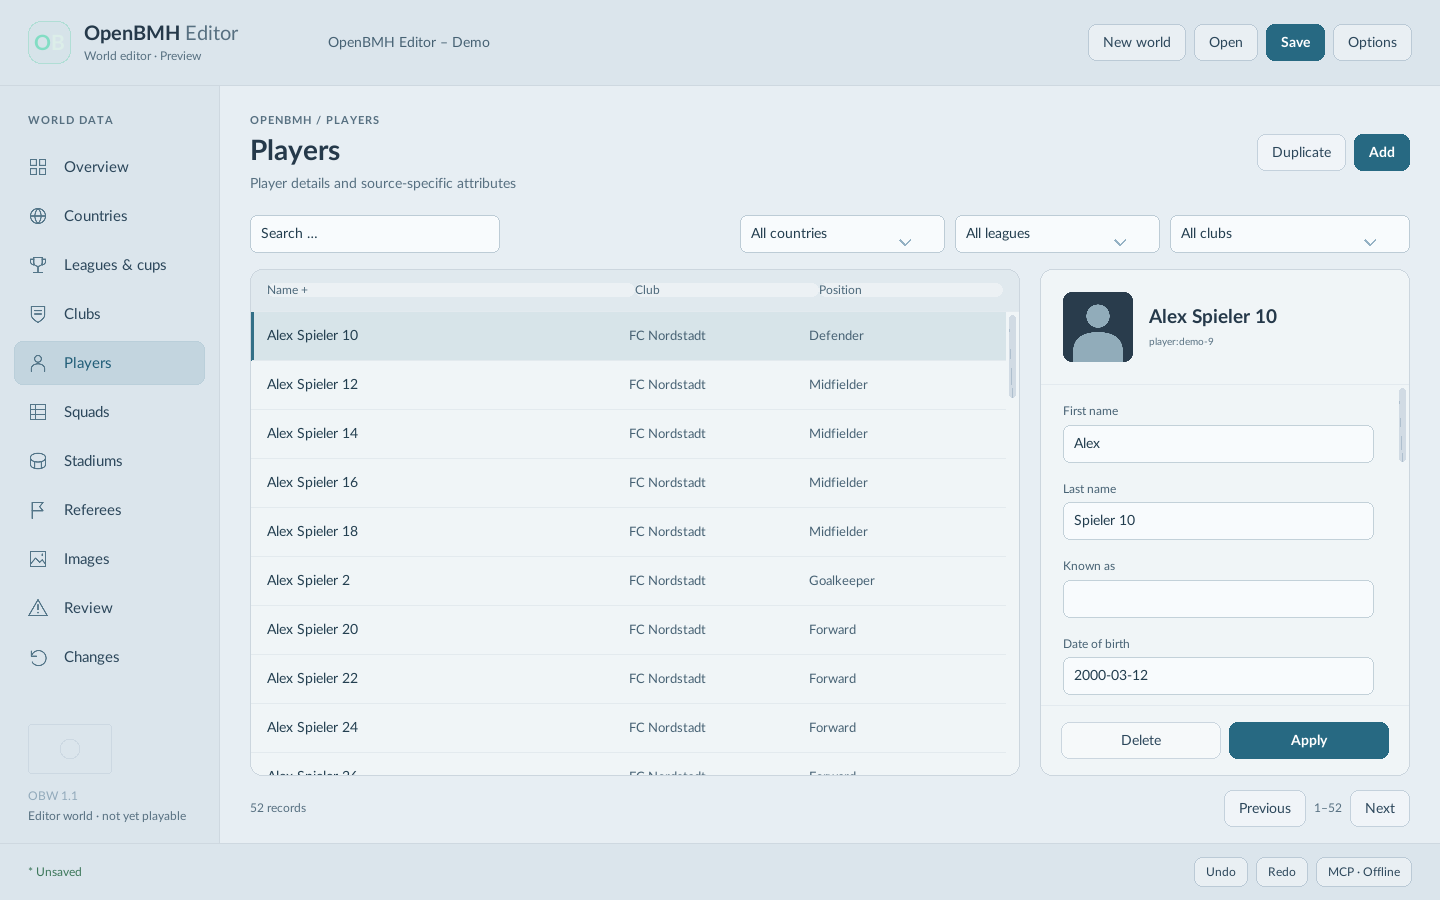
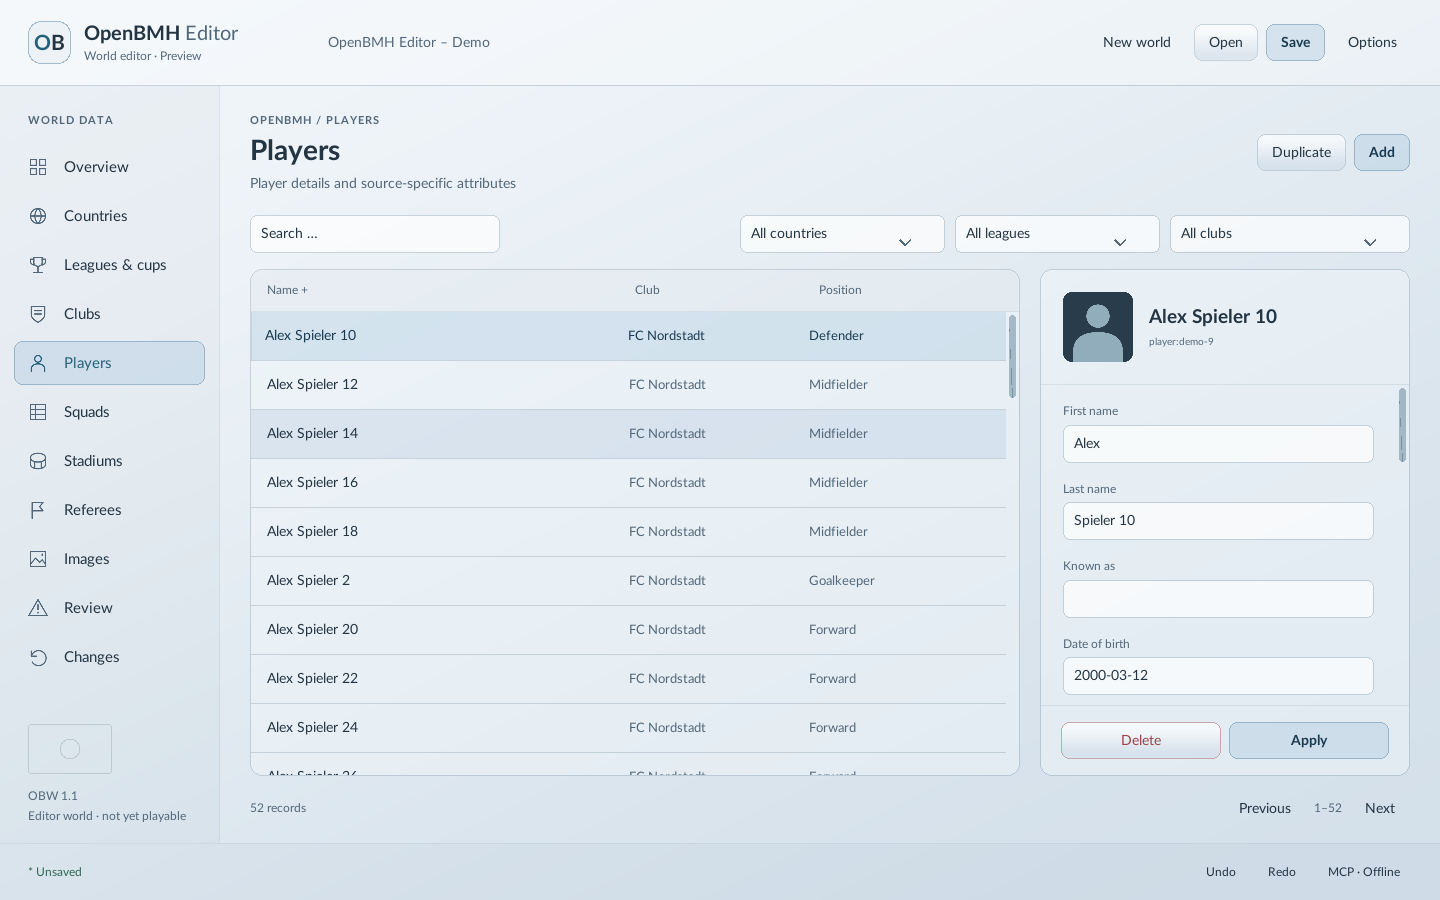
Match all editor themes to modern submenu palettes (by Codex)

diff --git a/tools/public_release/check_public_tree.py b/tools/public_release/check_public_tree.py
@@ -45,15 +45,51 @@ SKIP_DIRECTORIES = {".git", "__pycache__", ".cache", "_deps", "node_modules"}
 # The latter are reviewed against docs/qa/editor-poc/README.md; no game material.
 # Keep prior reviewed hashes if an asset is intentionally revised in history.
 PROJECT_ARTWORK = {
[6 lines of base64/hex data omitted]
+    "docs/qa/editor-poc/clubs-midnight-de.png": {
[2 lines of base64/hex data omitted]
+    },
+    "docs/qa/editor-poc/gui-search.png": {
[2 lines of base64/hex data omitted]
+    },
+    "docs/qa/editor-poc/image-editor-midnight-de.png": {
[2 lines of base64/hex data omitted]
+    },
+    "docs/qa/editor-poc/options-midnight-de.png": {
[2 lines of base64/hex data omitted]
+    },
+    "docs/qa/editor-poc/players-silver-en.png": {
[2 lines of base64/hex data omitted]
+    },
+    "docs/qa/editor-poc/roster-matchday-de.png": {
[2 lines of base64/hex data omitted]
+    },
     "assets/launcher/stadium.tga": {
[2 lines of base64/hex data omitted]
+    },
+    "docs/qa/editor-poc/clubs-silver-de.png": {
[1 lines of base64/hex data omitted]
+    },
+    "docs/qa/editor-poc/options-silver-de.png": {
[1 lines of base64/hex data omitted]
+    },
+    "docs/qa/editor-poc/image-editor-silver-de.png": {
[1 lines of base64/hex data omitted]
+    },
+    "docs/qa/editor-poc/clubs-matchday-de.png": {
[1 lines of base64/hex data omitted]
+    },
+    "docs/qa/editor-poc/options-matchday-de.png": {
[1 lines of base64/hex data omitted]
+    },
+    "docs/qa/editor-poc/image-editor-matchday-de.png": {
[1 lines of base64/hex data omitted]
     },
 }
 

diff --git a/src/editor/ui.cpp b/src/editor/ui.cpp
@@ -209,9 +209,13 @@ class EditorUi final : public Rml::EventListener {
             {"assets", "M3 3h18v18H3zM3 18l6-7 5 5 3-3 4 5M17 6v2"},
             {"review", "M12 2 1 21h22zM12 8v6M12 17v1"},
             {"changes", "M4 5v6h6M4 11a9 9 0 1 1 1 7"}};
-        const auto token = "icon-" + options_.theme + '-' + name + ".png";
+        const bool active = name == page_;
+        const auto token = "icon-" + options_.theme + '-' + name + (active ? "-active.png" : ".png");
         if (!renderer_.memory.contains(token)) {
-            auto color = options_.theme == "silver" ? "#537588" : options_.theme == "matchday" ? "#d3b3b0" : "#9cb9c8";
+            // Rasterized line art follows the same muted/accent colours as RCSS.
+            const auto color = options_.theme == "silver"     ? (active ? "#25617a" : "#526779")
+                               : options_.theme == "matchday" ? (active ? "#efb2aa" : "#b7b4b9")
+                                                              : (active ? "#a9dccb" : "#a8b8c8");
             renderer_.memory[token] = {"<svg xmlns=\"http://www.w3.org/2000/svg\" width=\"24\" "
                                        "height=\"24\" viewBox=\"0 0 24 24\"><path d=\"" +
                                            paths.at(name) + "\" fill=\"none\" stroke=\"" + color +

diff --git a/docs/qa/editor-poc/README.md b/docs/qa/editor-poc/README.md
@@ -12,7 +12,26 @@ reviewed image hashes are allowlisted by the public-tree check.
 | [Squads](roster-matchday-de.png) | Matchday theme, full squads and optional 24-row view |
 | [Search](gui-search.png) | Actual keyboard input, focus retained across filtering |
 | [Options](options-midnight-de.png) | Language, theme, integrated MCP toggle/port |
-| [Image editor](image-editor-midnight-de.png) | Source-preserving crop, free rotation and mirroring; a simple synthetic vector portrait |
+| [Image editor](image-editor-midnight-de.png) | Source-preserving crop, free rotation and mirroring; the demo's geometric SVG crest |
+
+## Theme comparison
+
+The three editor palettes follow the modern game's submenu colours. Midnight
+uses a slate-grey gradient and restrained mint accents, Silver pale silver-blue
+surfaces and petrol accents, and Matchday graphite surfaces and coral accents.
+All components consume the inherited palette, including dropdown popups,
+validation/error text, scrollbars, image stages and crop outlines. The comparison
+uses the same German `World::demo()` view in each theme.
+
+| Theme | Clubs | Options | Image editor |
+|---|---|---|---|
+| Midnight Glass | [View](clubs-midnight-de.png) | [View](options-midnight-de.png) | [View](image-editor-midnight-de.png) |
+| Silver Glass | [View](clubs-silver-de.png) | [View](options-silver-de.png) | [View](image-editor-silver-de.png) |
+| Matchday | [View](clubs-matchday-de.png) | [View](options-matchday-de.png) | [View](image-editor-matchday-de.png) |
+
+[Previous Midnight view](https://github.com/Weyoune/openbmh/blob/fcf6092063c2354dec400462d5fa0c7dda3afe11/docs/qa/editor-poc/clubs-midnight-de.png)
+provides the before image for the change from saturated navy to the submenu
+palette. Data and layout are identical.
 
 Environment: Debian 13 x86-64; actual SDL2/OpenGL/RmlUI window inside Xvfb,
 software OpenGL requested with `LIBGL_ALWAYS_SOFTWARE=1`; 1440×900 window.
@@ -31,6 +50,13 @@ Validation performed:
   JSON colour field retained; native search focus; shared MCP/native undo/redo;
   save to OBW. This check caught and fixed RmlUI textarea entity handling and
   select-initialization refresh loops.
+- Native theme QA: switch Midnight → Silver → Matchday → Midnight through the
+  actual Options dropdown and Apply button; verify persisted settings and
+  compare rendered body, list and inspector pixels against a fresh startup
+  in each theme. Reopen the editor using the saved preference. Inspect the
+  Options popup, rejected invalid port input, dashboard, players, review,
+  history and image editor in each palette. The rejected input leaves the
+  saved options unchanged. No new platform GUI claim is implied.
 - Private local checks, whose data is not published here: raw BMH and raw
   Football Limited import, existing converted Classic OBWs, save/reopen, frozen
   Classic portrait composition, and the large private merged 32-league world.
@@ -46,9 +72,10 @@ OpenBMHEditor --demo --page clubs --screenshot clubs.png --quit-after-ms 1800
 ```
 
 The synthetic data is generated by `World::demo()`, not a career save. Options
-files used for captures are local QA profiles and are not included. The vector
-portrait uses a blue rectangle, a circular head and a rounded shoulder shape;
-it is an image-editor fixture, not a real or AI-generated player.
+files used for captures are local QA profiles and are not included. The image
+editor captures use the demo's geometric SVG crest. Earlier history also
+contains a synthetic portrait made from a blue rectangle, circular head and
+rounded shoulders; no real or AI-generated player photo is used.
 
 Windows x64/macOS ARM64 build and core/MCP checks are run by the separate
 **OBW Editor POC** workflow. A CI pass is not a human GUI acceptance test on

diff --git a/docs/EDITOR.md b/docs/EDITOR.md
@@ -29,6 +29,14 @@ Shortcuts: Ctrl/Cmd+O, Ctrl/Cmd+S, Shift+Ctrl/Cmd+S, Ctrl/Cmd+Z und Shift+Ctrl/C
 
 **Optionen** bietet Deutsch/Englisch, Midnight Glass/Silver Glass/Matchday und den integrierten MCP-Server. Die Sprache ändert die Oberfläche; Namen und Quelldaten werden nicht übersetzt. Einstellungen werden im Benutzerprofil gespeichert.
 
+Unter **Darstellung** stehen die drei Farbwelten der modernen Untermenüs zur Auswahl:
+
+- **Midnight Glass:** Schiefergrau mit dezenten Mint-Akzenten.
+- **Silver Glass:** helle silbergraue Flächen mit Petrol-Akzenten.
+- **Matchday:** Graphit mit warmen Korall-Akzenten.
+
+**Anwenden** wechselt das Theme ohne Neustart. Die Farbwahl gilt auch für Tabellen, Eigenschaften, Dropdowns, Meldungen und die Bildbearbeitung. [Native Vergleichsbilder](qa/editor-poc/README.md#theme-comparison) zeigen alle drei mit denselben synthetischen Daten.
+
 Der MCP-Server ist standardmäßig aktiviert und bindet ausschließlich `127.0.0.1`, standardmäßig Port `8765`. Port `0` wählt einen freien Port. Status und tatsächlicher Port sind in Optionen sichtbar. **Verbindung kopieren** kopiert eine JSON-Konfiguration einschließlich Bearer-Token für HTTP-fähige MCP-Clients. Das Token bleibt lokal im Benutzerprofil und wird nur auf ausdrückliches Kopieren/CLI-Anfordern ausgegeben. Ein anderer bereits laufender Editor kann den Standardport belegen; dann einen anderen Port wählen.
 
 Implementiert ist [MCP Streamable HTTP 2025-11-25](https://modelcontextprotocol.io/specification/2025-11-25/basic/transports), mit Aushandlung von 2025-06-18; JSON-Antworten, ohne optionale SSE-Sitzungen. Neuere MCP-Versionen werden nicht als unterstützt beworben. Der Server prüft Token, Host und gegebenenfalls Origin. Oberfläche und Agent bearbeiten dieselbe Welt, verwenden dieselbe Validierung und dieselbe Undo-Historie. Für konkurrierende Änderungen `expected_revision` aus `editor_info`/`editor_get` mitsenden.
